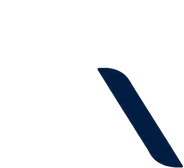
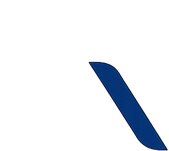
feat: add animated intro reveal overlay component and assets

Changed region(s): [[0.503, 0.3974, 1.0, 1.0]]

diff --git a/src/styles/intro.css b/src/styles/intro.css
@@ -1,14 +1,15 @@
 /* Logo reveal that covers the landing page on the first visit of a session.
    See src/components/landing/IntroReveal.tsx for when it plays.
 
-   The lockup box has the aspect ratio of the full logo (1681x337 in
-   newlogo.png); every piece is positioned in percentages of that box, so the
-   final frame lines up exactly with the static logo.
+   The layers in public/brand/loader are cut from gptlogo.png, the logo the
+   navbar uses (divider and TM included). The lockup box is that logo's
+   1244x244 content area; every piece is positioned in percentages of it, so
+   the final frame lines up exactly with the static logo.
 
    Timing (ms): red stroke 80-480, navy stroke 330-700, mark slides from
-   centre to its lockup position 720-1200, letters 880-1620 (late
-   enough that the mark has cleared their slot), fade out
-   1700-2050. The whole thing is CSS so it still goes away if JS never loads.
+   centre to its lockup position 720-1200, divider grows 950-1230, letters
+   880-1620 and TM 1180-1680 (late enough that the mark has cleared their
+   slot), fade out 1700-2050. The whole thing is CSS so it still goes away if JS never loads.
 
    Everything animates only transform and opacity. A fresh visit spends a
    few hundred ms of main-thread time loading the page while this plays, and
@@ -43,7 +44,7 @@ html.intro-wait .alayn-intro * {
 .alayn-intro__lockup {
   position: relative;
   width: clamp(220px, 62vw, 380px);
-  aspect-ratio: 1681 / 337;
+  aspect-ratio: 1244 / 244;
   animation: alayn-intro-lockup-out 350ms cubic-bezier(0.4, 0, 0.2, 1) 1700ms forwards;
 }
 
@@ -54,15 +55,15 @@ html.intro-wait .alayn-intro * {
   -webkit-user-drag: none;
 }
 
-/* The mark is 369/1681 of the lockup. 177.8% of its own width moves its
+/* The mark is 21.865% of the lockup. 178.7% of its own width moves its
    centre to the lockup's centre, so it starts alone in the middle. */
 .alayn-intro__mark {
   position: absolute;
   left: 0;
   top: 0;
-  width: 21.951%;
+  width: 21.865%;
   height: 100%;
-  transform: translateX(177.8%);
+  transform: translateX(178.7%);
   animation: alayn-intro-mark-slide 480ms cubic-bezier(0.16, 1, 0.3, 1) 720ms forwards;
 }
 
@@ -100,11 +101,21 @@ html.intro-wait .alayn-intro * {
 .alayn-intro__wipe--navy { transform: translateY(-101%); }
 .alayn-intro__wipe--navy img { transform: translateY(101%); }
 
-/* Letters are clipped to the wordmark area, so they emerge from behind the
-   mark as it slides left. */
+/* Grows out from its middle once the mark has nearly reached its place. */
+.alayn-intro__lockup .alayn-intro__divider {
+  left: 28.376%;
+  width: 0.643%;
+  top: 15.984%;
+  height: 84.016%;
+  transform: scaleY(0);
+  animation: alayn-intro-grow 280ms cubic-bezier(0.16, 1, 0.3, 1) 950ms forwards;
+}
+
+/* Letters are clipped to the area right of the divider, so they emerge from
+   behind it as the mark slides left. */
 .alayn-intro__word {
   position: absolute;
-  left: 30%;
+  left: 29.019%;
   right: 0;
   top: 0;
   bottom: 0;
@@ -112,23 +123,28 @@ html.intro-wait .alayn-intro * {
 }
 
 .alayn-intro__word img {
-  top: 39.763%;
-  height: 38.576%;
+  top: 41.803%;
+  height: 35.656%;
   opacity: 0;
   transform: translateX(-60%);
   animation: alayn-intro-letter 500ms cubic-bezier(0.16, 1, 0.3, 1) forwards;
 }
 
-/* left/width are each letter's position in the lockup, re-based onto the
-   word box, which starts at 30% and is 70% wide. */
-.alayn-intro__word img:nth-child(1) { left: 5.923%;  width: 13.257%; animation-delay: 880ms; }
-.alayn-intro__word img:nth-child(2) { left: 28.529%; width: 9.093%;  animation-delay: 940ms; }
-.alayn-intro__word img:nth-child(3) { left: 46.036%; width: 13.343%; animation-delay: 1000ms; }
-.alayn-intro__word img:nth-child(4) { left: 66.601%; width: 12.407%; animation-delay: 1060ms; }
-.alayn-intro__word img:nth-child(5) { left: 88.357%; width: 11.643%; animation-delay: 1120ms; }
+/* left/width are each letter's position in the logo, re-based onto the word
+   box. The TM layer is cut at the letters' height, so it shares top/height. */
+.alayn-intro__word img:nth-child(1) { left: 9.626%;  width: 11.891%; animation-delay: 880ms; }
+.alayn-intro__word img:nth-child(2) { left: 29.558%; width: 8.154%;  animation-delay: 940ms; }
+.alayn-intro__word img:nth-child(3) { left: 44.394%; width: 11.778%; animation-delay: 1000ms; }
+.alayn-intro__word img:nth-child(4) { left: 61.382%; width: 10.759%; animation-delay: 1060ms; }
+.alayn-intro__word img:nth-child(5) { left: 79.615%; width: 10.306%; animation-delay: 1120ms; }
+.alayn-intro__word img:nth-child(6) { left: 90.260%; width: 9.740%;  animation-delay: 1180ms; }
 
 @keyframes alayn-intro-wipe {
   to { transform: translateY(0); }
+}
+
+@keyframes alayn-intro-grow {
+  to { transform: scaleY(1); }
 }
 
 @keyframes alayn-intro-mark-slide {

diff --git a/src/components/landing/IntroRevealOverlay.tsx b/src/components/landing/IntroRevealOverlay.tsx
@@ -46,11 +46,12 @@ export default function IntroRevealOverlay() {
             <img src="/brand/loader/stroke-navy.png" alt="" draggable={false} />
           </span>
         </div>
+        {/* eslint-disable-next-line @next/next/no-img-element */}
+        <img className="alayn-intro__divider" src="/brand/loader/divider.png" alt="" draggable={false} />
         <div className="alayn-intro__word">
-          {/* A, L, A, Y, N */}
-          {[0, 1, 2, 3, 4].map((i) => (
+          {["letter-0", "letter-1", "letter-2", "letter-3", "letter-4", "tm"].map((name) => (
             // eslint-disable-next-line @next/next/no-img-element
-            <img key={i} src={`/brand/loader/letter-${i}.png`} alt="" draggable={false} />
+            <img key={name} src={`/brand/loader/${name}.png`} alt="" draggable={false} />
           ))}
         </div>
       </div>
